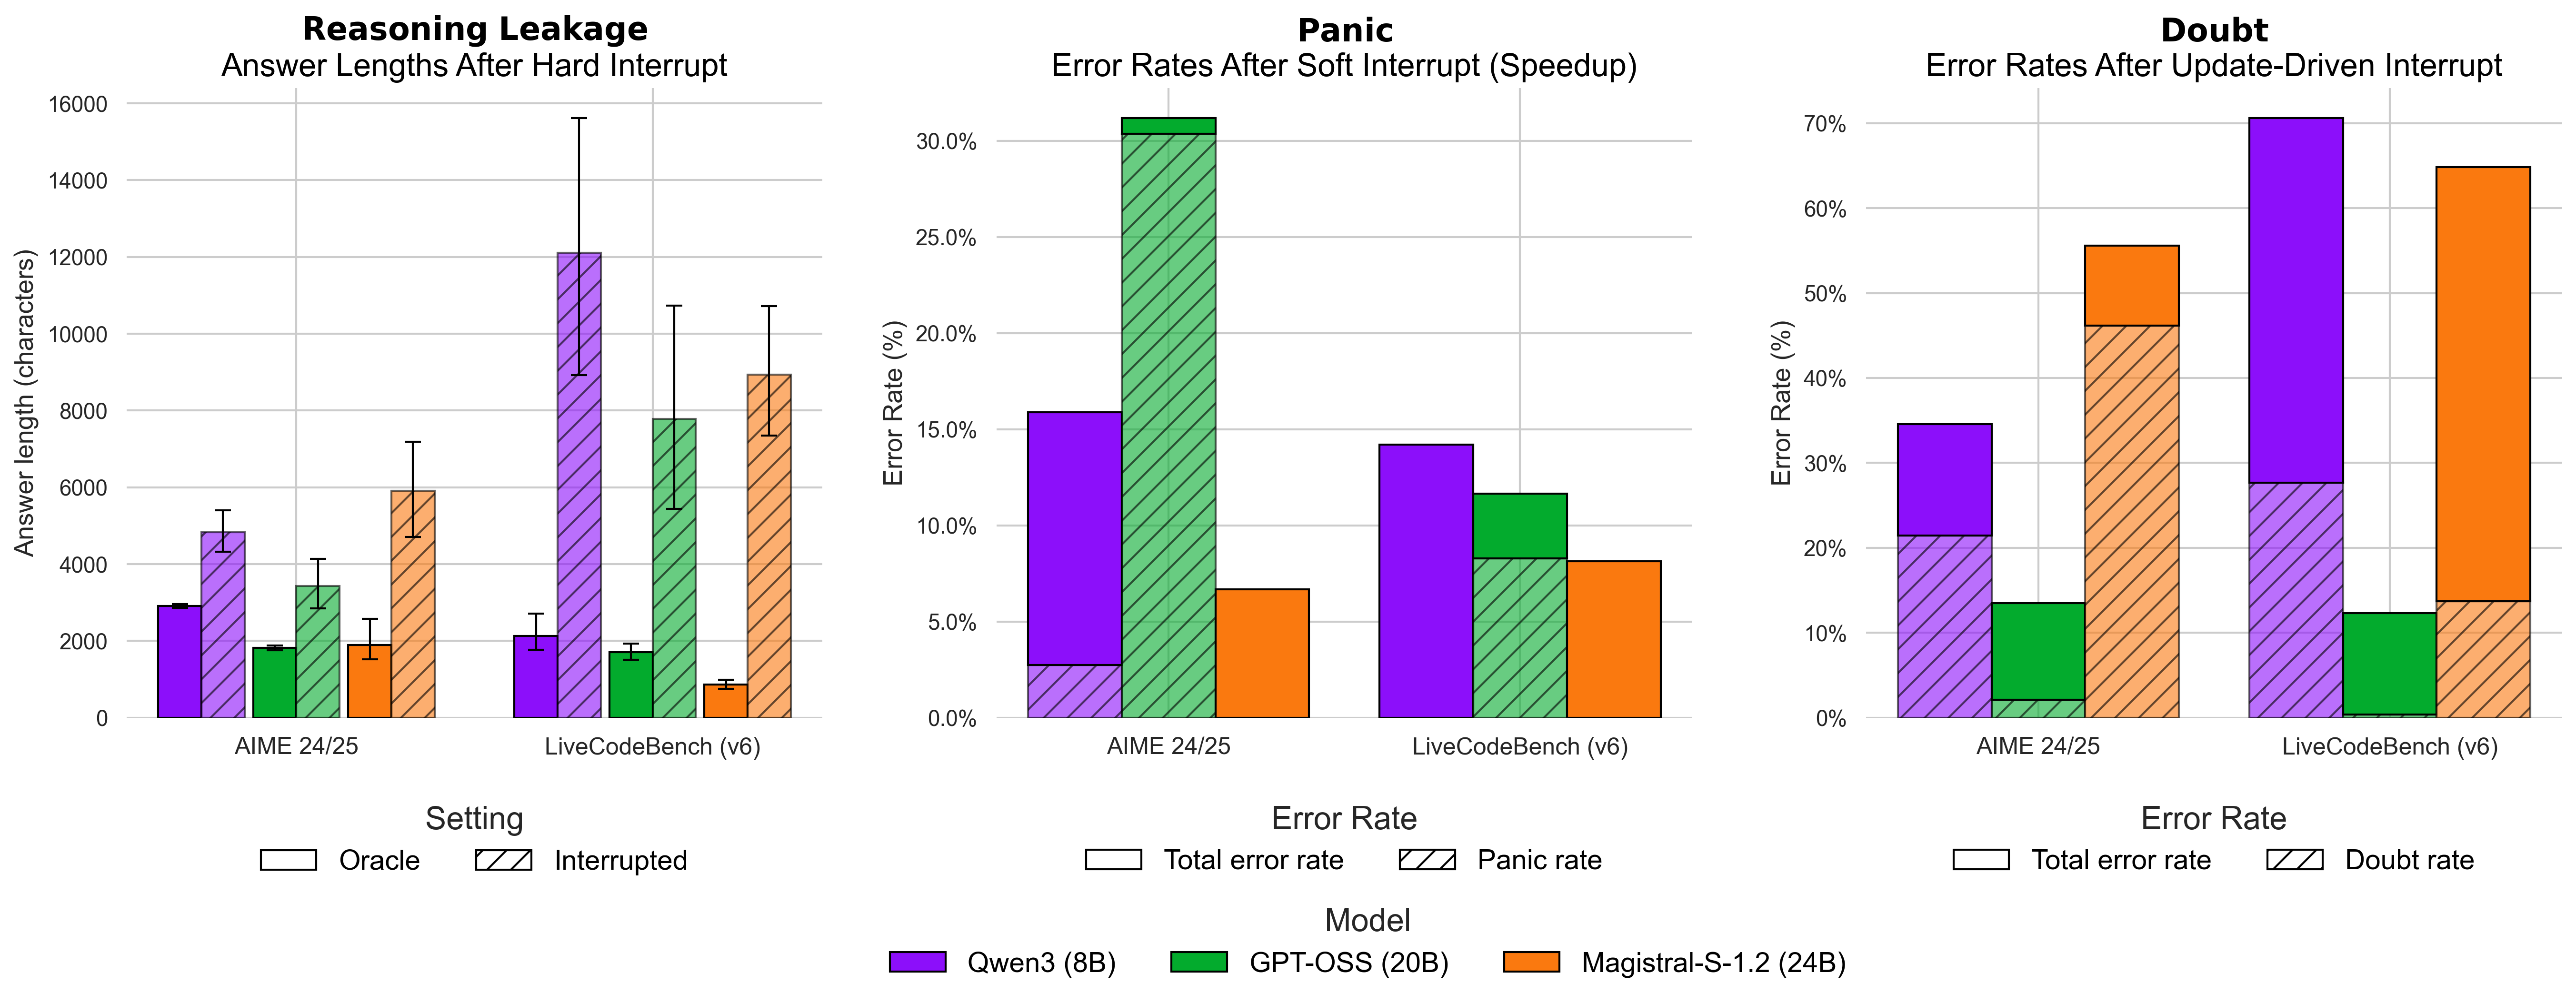
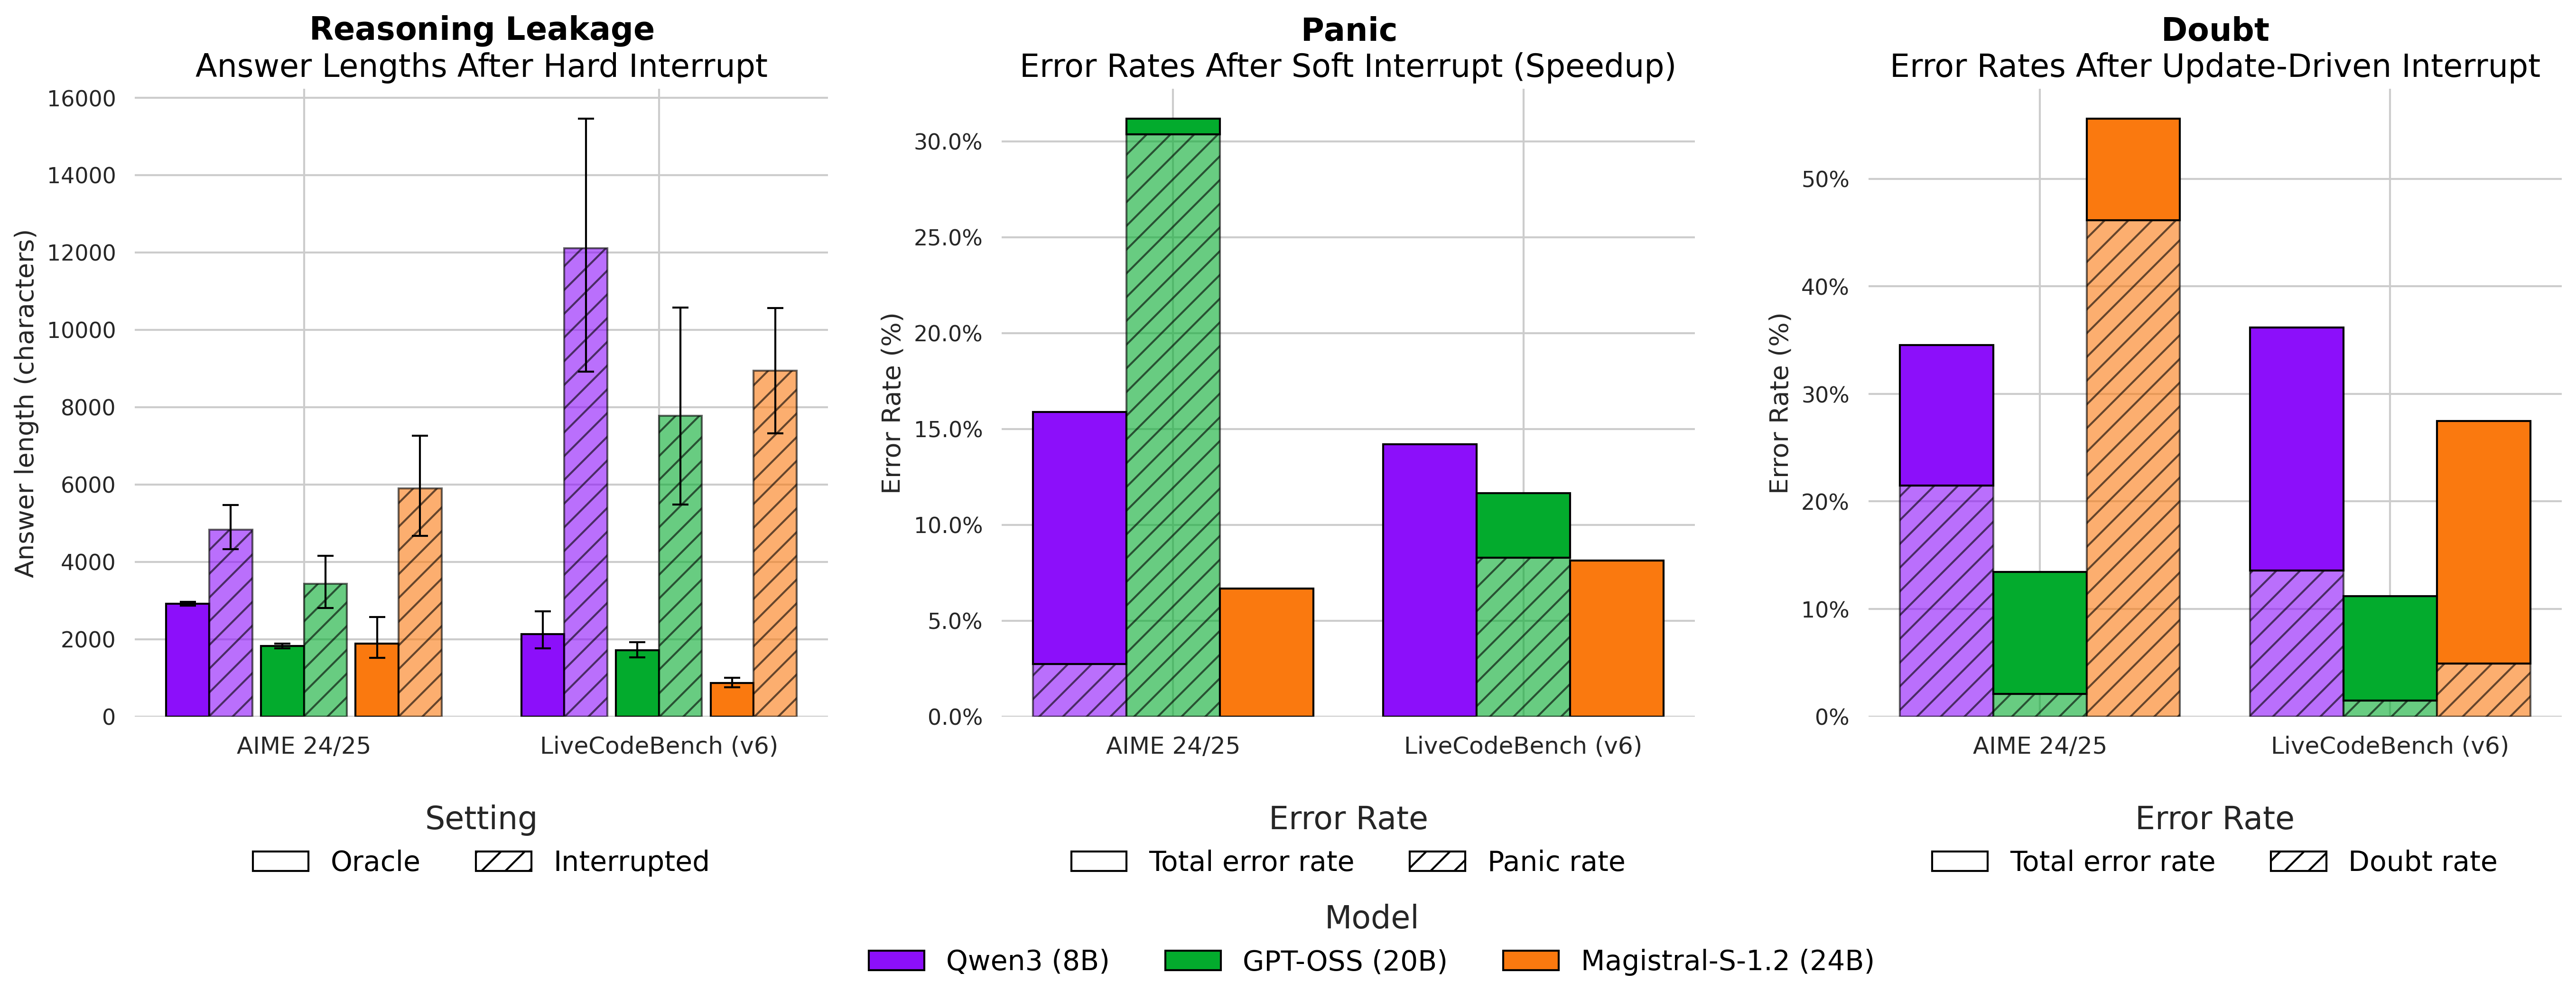
update fig, add links

diff --git a/README.md b/README.md
@@ -2,11 +2,11 @@
 
 <img src="images/logo.png" alt="Interrupt-LRM logo" width="250">
 
-**Paper:** [Are Large Reasoning Models Interruptible?]()
+**Paper:** [Are Large Reasoning Models Interruptible?](https://arxiv.org/abs/2510.11713)
 
 **Authors:** Tsung-Han Wu*, Mihran Miroyan*, David M. Chan, Trevor Darrell, Narges Norouzi, Joseph E. Gonzalez
 
-**Additional resources:** [🤗 Dataset](), [Blog post]()
+**Additional resources:** [🤗 Dataset](https://huggingface.co/datasets/dynamic-lm/update-interrupt-benchmark), [Blog post]()
 
 ### Abstract
 